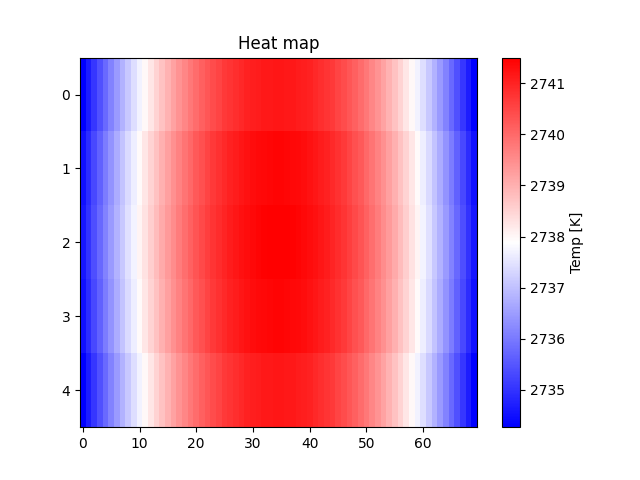
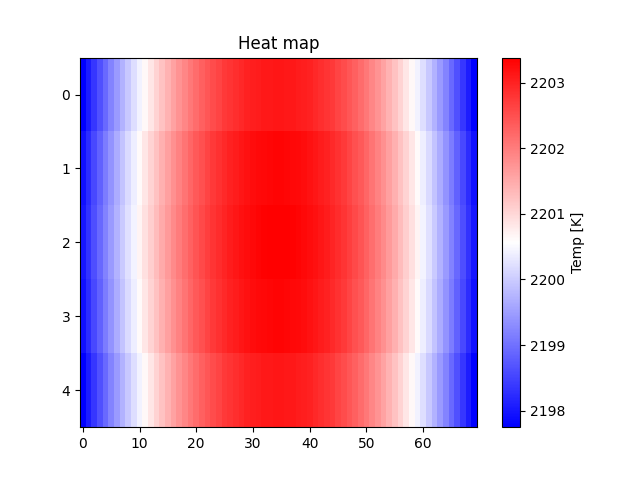
better initial guessing

diff --git a/project_4/main.py b/project_4/main.py
@@ -31,17 +31,6 @@ graph_count = 0
 # with_sink.iterate_K(max_iterations=2000000, save=True, save_every=10000, save_folder='natural_convection\\1pt_per_mm',graph_count=graph_count)
 
 
-# for i in range(1, 10):
-#     only_mp = cg.grid(case_dim=None, sink_dim=None, nat_conv=False, delta=[0.2e-3,0.2e-3], v=i*10, ini_temp=4000)
-    
-#     try:
-#         os.mkdir(f'project_4\\only_mp_forced_convection\\5pt_per_mm\\v_{i*10}')
-#     except:
-#         pass
-#     only_mp.iterate_K(max_iterations=1000000, save=True, save_every=10000, save_folder=f'only_mp_forced_convection\\5pt_per_mm\\v_{i*10}',graph_count=graph_count, tolerance=10e-3)
-#     graph_count += 1
-
-
 
 # finding initial conditions
 def find_ini_T(lower_limit, upper_limit, max_iterations=2000, max_repeat=20, case_dim=None, sink_dim=None, nat_conv=False, delta=[0.1e-3,0.1e-3], v=20):
@@ -73,6 +62,11 @@ def find_ini_T(lower_limit, upper_limit, max_iterations=2000, max_repeat=20, cas
 
         system = cg.grid(case_dim=case_dim, sink_dim=sink_dim, nat_conv=nat_conv, delta=delta, ini_temp=temp_to_try, v=v)
         mid, fin = system.iterate_K(max_iterations=max_iterations, return_=True)
+        
+        # if converged no need to continue trying
+        if mid == -1 and fin == -1:
+            return lower_limit, upper_limit
+    
         change = fin - mid
         print(change)
 
@@ -94,7 +88,7 @@ def find_ini_T(lower_limit, upper_limit, max_iterations=2000, max_repeat=20, cas
 
         repeat += 1
 
-    return lower_limit, upper_limit
+    return lower_limit, upper_limit, temp_to_try
 
 # find_ini_T(650,700, case_dim=[20e-3,2e-3], sink_dim=[4e-3,30e-3,2e-3,1e-3,20], max_iterations=500, max_repeat=5 )   #  T>almost700?
 # find_ini_T(500,3000, case_dim=[20e-3,2e-3], max_iterations=500, nat_conv=False, max_repeat=5 )
@@ -104,30 +98,71 @@ def find_ini_T(lower_limit, upper_limit, max_iterations=2000, max_repeat=20, cas
 # try if convergence temp is different if more or less data points is used
 
 
-# # check to remove axis offsets
+# for heat sink
 # lower_limits = []
 # upper_limits = []
 # for i in range (6, 11):
-#     lower_limit, upper_limit = find_ini_T(100,1000, max_iterations=500, case_dim=[20e-3,2e-3], sink_dim=[4e-3,30e-3,2e-3,1e-3,20], nat_conv=False, max_repeat=10, v=i*10 )
+#     lower_limit, upper_limit, last_tried = find_ini_T(100,1000, max_iterations=500, case_dim=[20e-3,2e-3], sink_dim=[4e-3,30e-3,2e-3,1e-3,20], nat_conv=False, max_repeat=10, v=i*10, delta=[0.5e-3,0.5e-3] )
 #     lower_limits.append(lower_limit)
 #     upper_limits.append(upper_limit)
 #     with open('project_4\\ini_T.txt', 'a') as file:
-#         string = 'for speed v = ' + str(i*10) + ' lower limit is : ' + str(lower_limit) + '  upper limit : ' + str(upper_limit)
+#         string = 'for speed v = ' + str(i*10) + ' lower limit is : ' + str(lower_limit) + '  upper limit : ' + str(upper_limit)+ ' last tried : ' + str(last_tried)
 #         file.write(string + '\n')
     
 # print('lower limits are :', lower_limits)
 # print('upper limits are :', upper_limits)
 
-# for mp only
-lower_limits = []
-upper_limits = []
-for i in range (6, 11):
-    lower_limit, upper_limit = find_ini_T(100,1100, max_iterations=3000, case_dim=None, sink_dim=None, nat_conv=False, max_repeat=10, v=i*10 )
-    lower_limits.append(lower_limit)
-    upper_limits.append(upper_limit)
-    with open('project_4\\only_mp_forced_convection\\ini_T.txt', 'a') as file:
-        string = 'for speed v = ' + str(i*10) + ' lower limit is : ' + str(lower_limit) + '  upper limit : ' + str(upper_limit)
-        file.write(string + '\n')
+
+############################### for mp only ###############################
+# lower_limits = []
+# upper_limits = []
+# for i in range (1, 7):
+#     lower_limit, upper_limit, last_tried = find_ini_T(500,4000, max_iterations=3000, case_dim=None, sink_dim=None, nat_conv=False, max_repeat=10, v=i*10 )
+#     lower_limits.append(lower_limit)
+#     upper_limits.append(upper_limit)
+#     with open('project_4\\only_mp_forced_convection\\ini_T.txt', 'a') as file:
+#         string = 'for speed v = ' + str(i*10) + ' lower limit is : ' + str(lower_limit) + '  upper limit : ' + str(upper_limit) + ' last tried : ' + str(last_tried)
+#         file.write(string + '\n')
     
-print('lower limits are :', lower_limits)
-print('upper limits are :', upper_limits)
+# print('lower limits are :', lower_limits)
+# print('upper limits are :', upper_limits)
+
+# ini_temps = [3800, 2235, 1627, 1311, 1114, 981, 886, 813, 757, 712]
+# for i, ini_temp in zip(range(1, 10), ini_temps):
+#     only_mp = cg.grid(case_dim=None, sink_dim=None, nat_conv=False, delta=[0.2e-3,0.2e-3], v=i*10, ini_temp=ini_temp)
+    
+#     if i != 1:
+#         continue
+#     try:
+#         os.mkdir(f'project_4\\only_mp_forced_convection\\5pt_per_mm\\v_{i*10}')
+#     except:
+#         pass
+#     only_mp.iterate_K(max_iterations=1000000, save=True, save_every=10000, save_folder=f'only_mp_forced_convection\\5pt_per_mm\\v_{i*10}',graph_count=graph_count, tolerance=0.1)
+#     graph_count += 1
+
+
+############################### when ceramic case is present ###############################
+# lower_limits = []
+# upper_limits = []
+# for i in range (1, 11):
+#     lower_limit, upper_limit, last_tried = find_ini_T(300,2000, max_iterations=500, case_dim=[20e-3,2e-3], sink_dim=None, nat_conv=False, max_repeat=10, v=i*10, delta=[0.5e-3,0.5e-3] )
+#     lower_limits.append(lower_limit)
+#     upper_limits.append(upper_limit)
+#     with open('project_4\\no_sink_forced_convection\\ini_T.txt', 'a') as file:
+#         string = 'for speed v = ' + str(i*10) + ' lower limit is : ' + str(lower_limit) + '  upper limit : ' + str(upper_limit) + ' last tried : ' + str(last_tried)
+#         file.write(string + '\n')
+    
+# print('lower limits are :', lower_limits)
+# print('upper limits are :', upper_limits)
+
+ini_temps = [>2000, 1575, 1150, 937.5, 831.25, 725, 725, 651.5, 592.2, 565]
+for i, ini_temp in zip(range(1, 10), ini_temps):
+    only_mp = cg.grid(case_dim=None, sink_dim=None, nat_conv=False, delta=[0.2e-3,0.2e-3], v=i*10, ini_temp=ini_temp)
+
+    try:
+        os.mkdir(f'project_4\\no_sink_forced_convection\\5pt_per_mm\\v_{i*10}')
+    except:
+        pass
+    
+    only_mp.iterate_K(max_iterations=1000000, save=True, save_every=10000, save_folder=f'no_sink_forced_convection\\5pt_per_mm\\v_{i*10}',graph_count=graph_count, tolerance=0.1)
+    graph_count += 1

diff --git a/project_4/create_grid.py b/project_4/create_grid.py
@@ -599,7 +599,6 @@ class grid():
             # operating
             self.operate_same_k_in_air()
             iteration += 1
-            print('iteration', iteration)
             
             # checking if max iterations reached
             if iteration == max_iterations:
@@ -615,17 +614,19 @@ class grid():
                 print('Converged after', iteration, 'iterations')
                 if save == True:
                     self.get_T(save=True, name='project_4/'+str(save_folder)+'/after_'+str(iteration)+'_iterations.png', graph_count=graph_count)
-                break
+                return -1, -1
             total_energy = new_total_energy
             
             # saving at every given interval
             if save==True and iteration % save_every == 0:
-                print('iteration', iteration)
+                # print('iteration', iteration, 'change', change)
                 self.get_T(save=True, name='project_4/'+str(save_folder)+'/after_'+str(iteration)+'_iterations.png', graph_count=graph_count)
 
             if abs(iteration - max_iterations/2) <= 1:
                 highest_T_middle = np.max(self.T)
                 lowest_T_middle = np.min(self.T)
+            
+            print('iteration', iteration, 'change', change)
 
         if return_:
             highest_T_final = np.max(self.T)

diff --git a/project_4/functions.py b/project_4/functions.py
@@ -1,7 +1,7 @@
 import numpy as np
 import matplotlib.pyplot as plt
 
-
+# conductivities across boundry
 def k(point1, point2):
     k = 2/(1/point1 + 1/point2)
     return k
